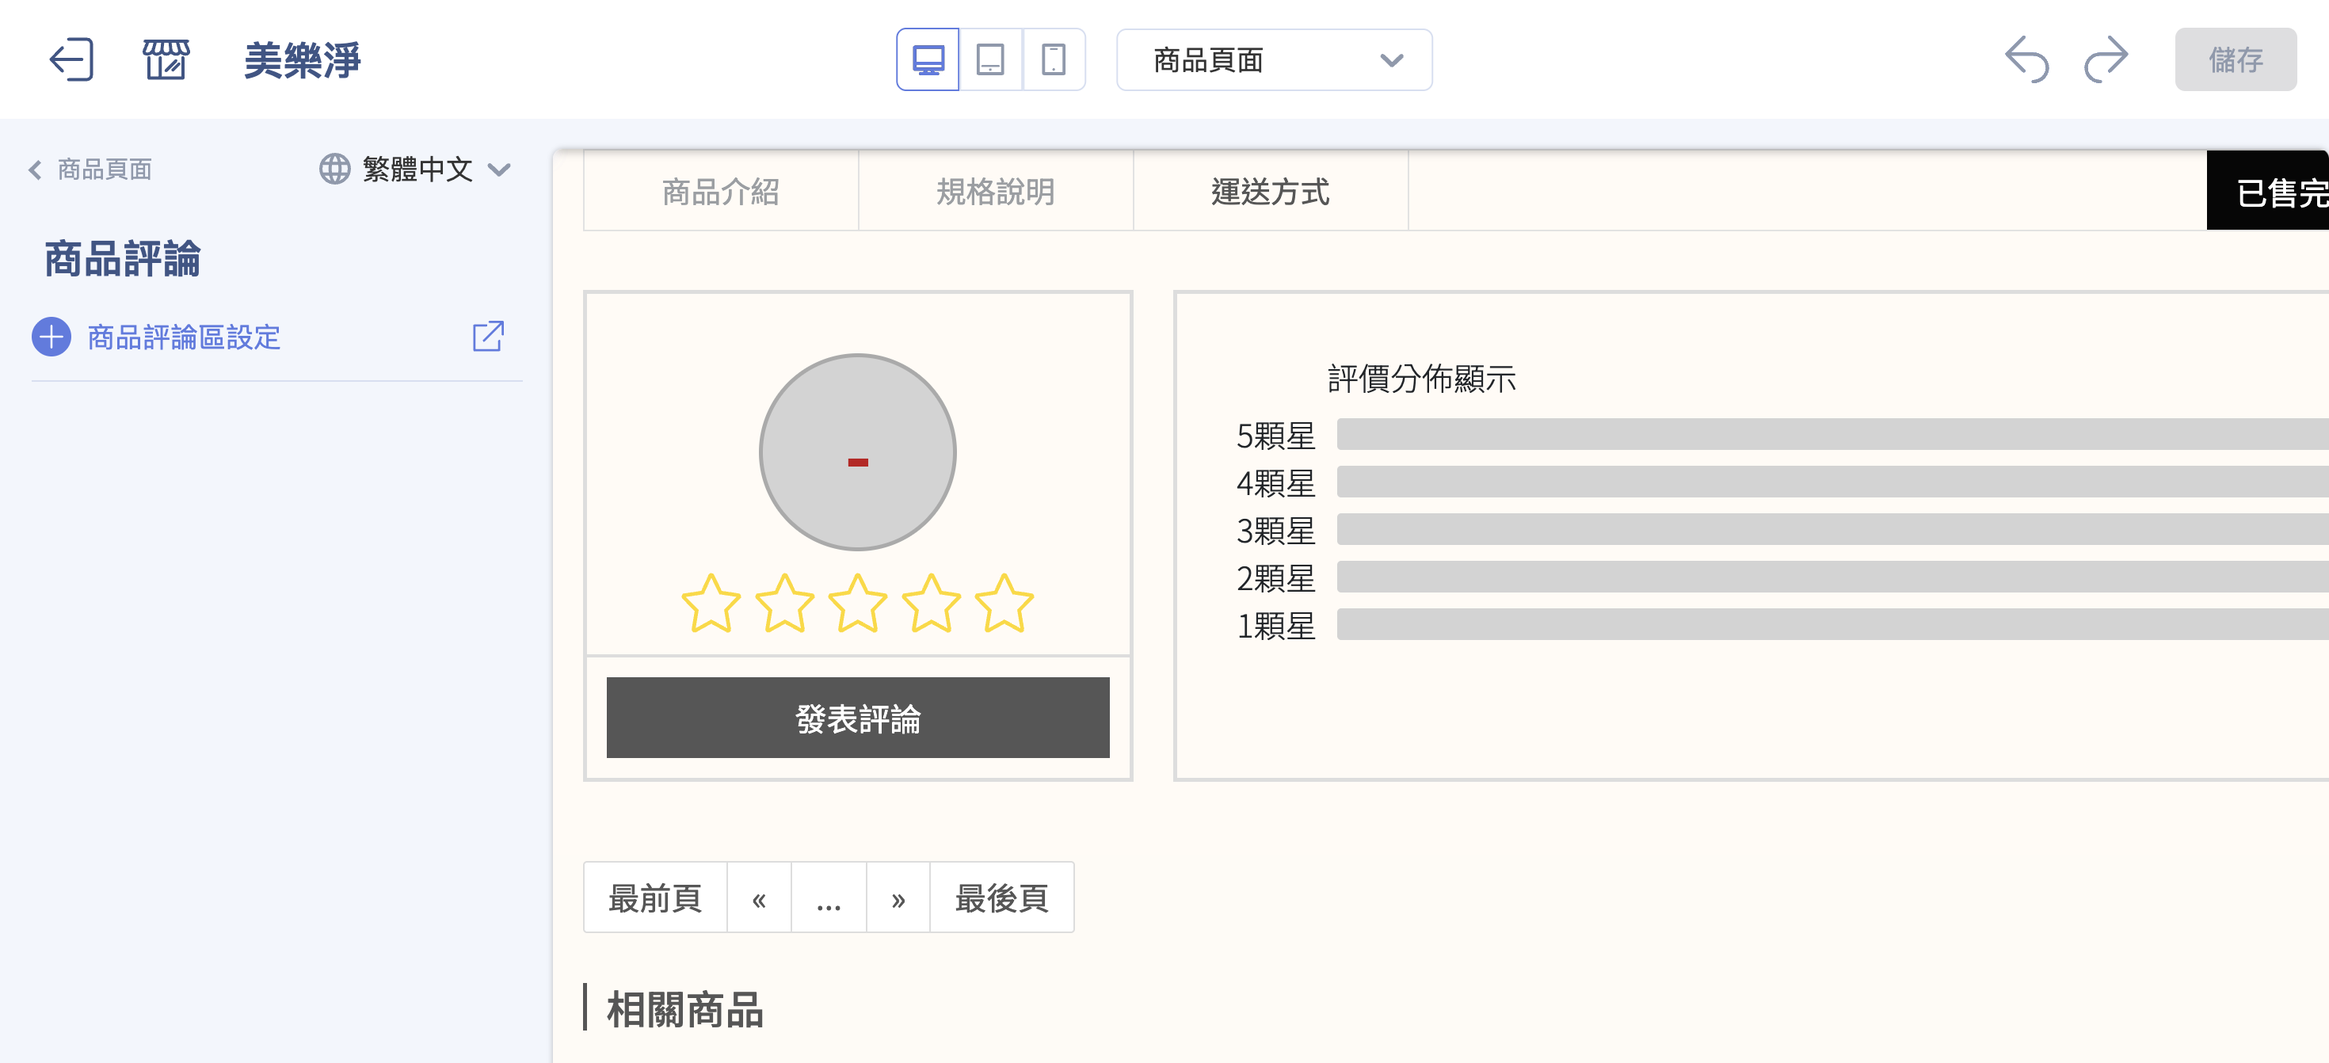
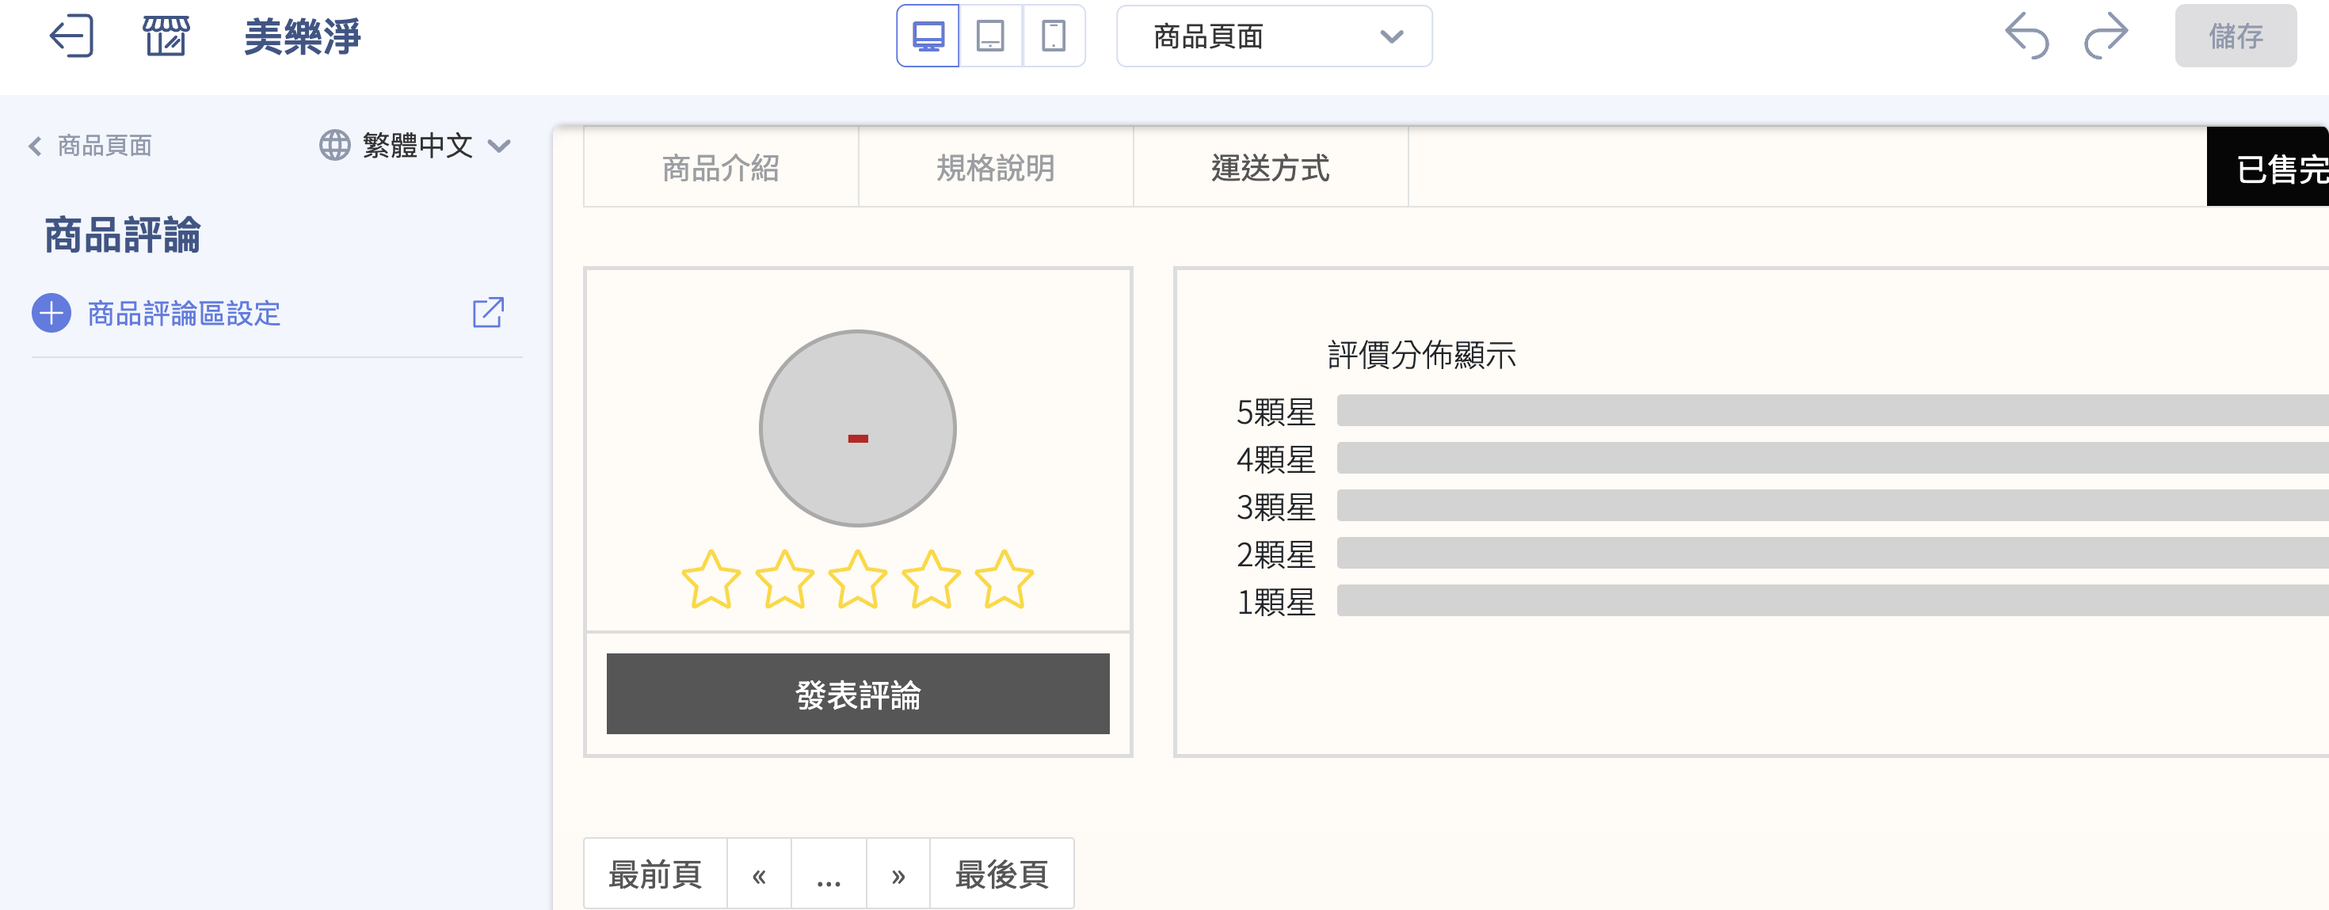
update

diff --git a/docs/ec/website-appearance/theme-and-layout/setup-theme-page-settings.md b/docs/ec/website-appearance/theme-and-layout/setup-theme-page-settings.md
@@ -2,7 +2,7 @@
 title: 各頁面設定指南
 description: 依頁面類型說明拖拉版型的各項設定，包含首頁區塊、商品頁面、部落格、客服頁等。
 created:
-last_modified: 2026-07-14 16:59
+last_modified: 2026-07-15 10:40
 lang: zh-TW
 permalink: https://help.cyberbiz.io/ec/website-appearance/theme-and-layout/setup-theme-page-settings
 type: tutorial
@@ -111,7 +111,7 @@ comments: false
 
 ### 首頁 { #homepage }
 
-首頁可新增以下 13 種區塊。多數區塊的設定面板會提供一個 **其他版面設定** 展開面板，裡面除了各區塊的特有項目外，都包含一組共通的 **版面邊距**（單位 px），以下各區塊章節 **只列出其特有設定**，共通的版面邊距不再重複說明。
+首頁可新增以下 13 種區塊。多數區塊的設定面板會提供一個 **其他版面設定** 展開面板，裡面除了各區塊的特有項目外，都包含一組共通的 **版面邊距**（單位 px），以下各區塊章節 **列出其特有設定**。
 
 ??? info "版面邊距設定"
 
@@ -380,50 +380,50 @@ comments: false
 
     ![自訂排版設計-新增小區塊](../../../assets/images/ec-website-appearance-custom-blocks-add-block.png){ title="新增小區塊" }
 
-=== "圖片" 
+    === "圖片" 
 
-    1. 上傳電腦／平板／手機版圖片（僅傳電腦版時自動沿用）。 
-    2. 填寫 **圖片標題、圖片說明（進階文字）、圖片連結（可新分頁開啟）、圖片替代文字**。 
-    3. 設定 **版面螢幕占比**。 
+        1. 上傳電腦／平板／手機版圖片（僅傳電腦版時自動沿用）。 
+        2. 填寫 **圖片標題、圖片說明（進階文字）、圖片連結（可新分頁開啟）、圖片替代文字**。 
+        3. 設定 **版面螢幕占比**。 
 
-    ![自訂排版設計 - 圖片](../../../assets/images/ec-website-appearance-custom-blocks-image.png) 
+        ![自訂排版設計 - 圖片](../../../assets/images/ec-website-appearance-custom-blocks-image.png) 
 
-=== "影片" 
+    === "影片" 
 
-    1. 貼入 **影片連結**。 
-    2. 設定 **自動播放／隱藏外框／重複播放**（重複播放預設開啟）。 
-    3. 設定 **版面螢幕占比**。 
+        1. 貼入 **影片連結**。 
+        2. 設定 **自動播放／隱藏外框／重複播放**（重複播放預設開啟）。 
+        3. 設定 **版面螢幕占比**。 
 
-    ![自訂排版設計 - 影片](../../../assets/images/ec-website-appearance-custom-blocks-video.png) 
+        ![自訂排版設計 - 影片](../../../assets/images/ec-website-appearance-custom-blocks-video.png) 
 
-=== "排程跑馬燈" 
+    === "排程跑馬燈" 
 
-    1. 載入預先製作好的 **跑馬燈群組**。 
-    2. 設定 **版面螢幕占比**。 
-    3. 詳見 [排程跑馬燈設定指南](configure-scheduled-carousels.md){ title="建立與管理排程跑馬燈" }。 
+        1. 載入預先製作好的 **跑馬燈群組**。 
+        2. 設定 **版面螢幕占比**。 
+        3. 詳見 [排程跑馬燈設定指南](configure-scheduled-carousels.md){ title="建立與管理排程跑馬燈" }。 
 
-    ![自訂排版設計 - 排程跑馬燈](../../../assets/images/ec-website-appearance-custom-blocks-carousel.png) 
+        ![自訂排版設計 - 排程跑馬燈](../../../assets/images/ec-website-appearance-custom-blocks-carousel.png) 
 
-=== "自訂 HTML" 
+    === "自訂 HTML" 
 
-    1. 點擊「編輯」進入 HTML 編輯頁面。 
-    2. 貼入自訂 HTML／CSS 程式碼。 
-    3. 設定 **版面螢幕占比**。 
+        1. 點擊「編輯」進入 HTML 編輯頁面。 
+        2. 貼入自訂 HTML／CSS 程式碼。 
+        3. 設定 **版面螢幕占比**。 
 
-    ![自訂排版設計 - 自訂 HTML](../../../assets/images/ec-website-appearance-custom-blocks-html.png) 
+        ![自訂排版設計 - 自訂 HTML](../../../assets/images/ec-website-appearance-custom-blocks-html.png) 
 
-=== "商品" 
+    === "商品" 
 
-    1. 點擊「選擇商品」找出商品（僅能選單一商品）。 
+        1. 點擊「選擇商品」找出商品（僅能選單一商品）。 
 
-        ![自訂排版設計 - 選擇商品](../../../assets/images/ec-website-appearance-custom-blocks-product-select.png) 
+            ![自訂排版設計 - 選擇商品](../../../assets/images/ec-website-appearance-custom-blocks-product-select.png) 
 
-    2. 設定 **電腦版商品分類樣式** 及 **版面螢幕占比**。 
+        2. 設定 **電腦版商品分類樣式** 及 **版面螢幕占比**。 
 
-        ![自訂排版設計 - 分類樣式與版面占比](../../../assets/images/ec-website-appearance-custom-blocks-product-layout.png) 
+            ![自訂排版設計 - 分類樣式與版面占比](../../../assets/images/ec-website-appearance-custom-blocks-product-layout.png) 
 
-!!! tip "設計模組的版面比例" 
-    透過「**版面螢幕占比**」控制每個小區塊的寬度，讓多個小區塊在同一橫列並排。每列總占比上限 100%，超過即自動換行。 
+    !!! tip "設計模組的版面比例" 
+        透過「**版面螢幕占比**」控制每個小區塊的寬度，讓多個小區塊在同一橫列並排。每列總占比上限 100%，超過即自動換行。 
 
 
 <!---->
@@ -518,15 +518,15 @@ comments: false
 
     === "電腦版"
 
-        - **版面左右外邊距**：設 0px 即滿版（預設 0px），輸入後按 Enter 套用。
-        - **版面底部外邊距**：與下方區塊的距離（預設 0px）。
+        - **版面左右外邊距**：設 0px 即滿版，輸入後按 Enter 套用。
+        - **版面底部外邊距**：與下方區塊的距離。
 
         ![電腦版-版面邊距](../../../assets/images/ec-website-appearance-graphic-intro-margins-desktop.png)
 
     === "平板版、手機版"
 
-        - **版面左右外邊距**：同電腦版（預設 0px）。
-        - **版面底部外邊距**：同電腦版（預設 0px）。
+        - **版面左右外邊距**：同電腦版。
+        - **版面底部外邊距**：同電腦版。
 
         ![平板手機版-版面邊距](../../../assets/images/ec-website-appearance-graphic-intro-margins-mobile.png)
 
@@ -562,7 +562,6 @@ comments: false
 
             !!! warning "使用前提"
                 商品多層級分類、紅配綠組合優惠活動、紅利商城等選項，需先開通對應功能才會出現在下拉選單中。
-
 
 ---
 
@@ -618,15 +617,15 @@ comments: false
 
     === "電腦版"
 
-        - **版面左右外邊距**：設 0px 即滿版（預設 80px），輸入後按 Enter 套用。
-        - **版面底部外邊距**：與下方區塊的距離（預設 50px）。
+        - **版面左右外邊距**：設 0px 即滿版，輸入後按 Enter 套用。
+        - **版面底部外邊距**：與下方區塊的距離。
 
         ![主打商品-電腦版-版面邊距](../../../assets/images/ec-website-appearance-flagship-margins-desktop.png)
 
     === "平板版、手機版"
 
-        - **版面左右外邊距**：同電腦版（預設 16px）。
-        - **版面底部外邊距**：同電腦版（預設 24px）。
+        - **版面左右外邊距**：同電腦版。
+        - **版面底部外邊距**：同電腦版。
 
         ![主打商品-平板手機版-版面邊距](../../../assets/images/ec-website-appearance-flagship-margins-mobile.png)
 
@@ -753,6 +752,9 @@ comments: false
     - **其他設定**：
 
         - **顯示商品廠商**：勾選後在前台顯示商品廠商名稱。
+
+            ![顯示商品廠商](../../../assets/images/ec-product-page-basic-manufacturer.png)
+
         - **顯示優惠活動區**：勾選後顯示優惠活動區塊。
 
             ![顯示優惠活動區](../../../assets/images/ec-product-page-basic-promo-area.png)
@@ -771,14 +773,25 @@ comments: false
 
     此功能需先洽客服申請開通。開通後可設定是否需審核留言、隱藏部分姓名，並可搭配 Google reCAPTCHA 防止機器人攻擊。
 
-    - [如何管理商品評論](../../products/engagement/manage-product-reviews.md){ title="管理商品評論" }
-    - [如何啟用 reCAPTCHA](../customer-interaction/enable-comment-recaptcha.md){ title="啟用留言區 reCAPTCHA" }
+    <div class="grid cards" markdown>
+
+    - :lucide-message-square:{ .lg } [__管理商品評論__](../../products/engagement/manage-product-reviews.md){ title="管理商品評論" }
+
+    - :lucide-shield-check:{ .lg } [__啟用留言區 reCAPTCHA__](../customer-interaction/enable-comment-recaptcha.md){ title="啟用留言區 reCAPTCHA" }
+
+    </div>
 
     ![商品頁面-商品評論](../../../assets/images/ec-網站外觀-拖拉版型-商品頁面-商品評論.png)
 
 === "相關商品"
+    [](){ #相關商品 }
 
     選擇顯示「商品群組其他商品」(同分類隨機顯示)或「自訂關聯群組商品」。
+
+    - **顯示同商品群組其他商品**：隨機顯示此商品所屬商品群組的其他品項。
+    - **顯示自訂關聯群組商品**：排序顯示此商品於商品頁設定之相關群組品項（[商品關聯群組](../../products/create-and-manage/create-update-products.md#operate-product-edit-settings){ title="設定商品關聯群組" }）。
+    - **相關商品標籤文字**：輸入標籤顯示文字，輸入後按 Enter 套用。
+    - **選擇商品數量上限**：設定顯示的商品數量。
 
     ![商品頁面-相關商品](../../../assets/images/ec-網站外觀-拖拉版型-商品頁面-相關商品.png)
 

diff --git a/docs/ec/products/create-and-manage/create-update-products.md b/docs/ec/products/create-and-manage/create-update-products.md
@@ -2,7 +2,7 @@
 title: 新增與更新商品
 description: 完成一支商品從新增、設定款式與價格、撰寫商品描述，到後續編輯、複製、上下架，以及多國語系與跨境銷售的相關設定。
 created: 2026-03-08 17:15
-last_modified: 2026-07-08 13:06
+last_modified: 2026-07-15 13:55
 lang: zh-TW
 type: tutorial
 status: ""
@@ -271,17 +271,28 @@ hide: []
 
 切換至 **設定** 分頁，可進行下列進階設定：
 
-- **商品類型 / 商品通路 / 商品廠商：** 用於後台分類與管理。此三項新增後無法刪除或改名，請謹慎命名。
-- **標籤：** 為商品加上標籤，方便後台管理與前台分類。
-- **出貨方式：** 選擇 **自行出貨** 或已開通的倉儲物流[^warehouse]。
-- **運送溫層與物流配送：** 設定常溫、冷藏或冷凍，並勾選此商品可使用的物流[^temperature]。
-- **SEO 設定：** 依商品特性填寫，有助於提升搜尋引擎排名。
-- **商品關聯群組：** 選擇既有的 [**商品自訂分類**](../categories-and-tags/custom-collections.md){ title="設定商品自訂分類群組" } 或 [**商品條件分類**](../categories-and-tags/smart-collections.md){ title="設定商品條件分類群組" }，設定後該群組商品會顯示在商品頁下方的相關商品區。
-
 ![商品進階設定](../../../assets/images/ec-product-settings.zh-tw.png){ title="商品進階設定" }
 
-[^warehouse]: 可選的出貨倉庫依已開通的物流功能動態顯示，詳見 [出貨方式對照表](../references/product-warehouse.md){ title="出貨方式對照表" }。
-[^temperature]: 溫層為方案限定功能，各溫層意義詳見 [運送溫層對照表](../references/product-temperature.md){ title="運送溫層對照表" }。
+- **商品類型 / 商品通路 / 商品廠商：** 用於後台分類與管理。此三項新增後無法刪除或改名，請謹慎命名。
+- **標籤：** 為商品加上標籤，方便後台管理與前台分類。
+- **出貨方式：** 選擇 **自行出貨** 或已啟用的倉儲物流[^warehouse]。
+
+    ![商品出貨方式設定](../../../assets/images/ec-product-settings-shipping-method.png){ title="商品出貨方式設定" }
+
+- **運送溫層與物流配送：** 設定常溫、冷藏或冷凍，並勾選此商品可使用的物流[^temperature]。
+
+    ![商品運送溫層設定](../../../assets/images/ec-product-settings-temperature-zone.png){ title="商品運送溫層設定" }
+- **SEO 設定：** 依商品特性填寫，有助於提升搜尋引擎排名。
+
+    ![商品SEO設定](../../../assets/images/ec-product-settings-seo.png){ title="商品SEO設定" }
+
+- **商品關聯群組：** 選擇既有的 [**商品自訂分類**](../categories-and-tags/custom-collections.md){ title="設定商品自訂分類群組" } 或 [**商品條件分類**](../categories-and-tags/smart-collections.md){ title="設定商品條件分類群組" }，設定後該群組商品會顯示在商品頁下方的 [**相關商品區**](../../website-appearance/theme-and-layout/setup-theme-page-settings.md#相關商品){ title="設定相關商品顯示" }。
+
+    ![商品關聯群組設定](../../../assets/images/ec-product-settings-related-products.png){ title="商品關聯群組設定" }
+
+
+[^warehouse]: 可選的出貨倉庫依已啟用的物流功能動態顯示，詳見 [出貨方式對照表](../references/product-warehouse.md){ title="出貨方式對照表" }。
+[^temperature]: 各溫層意義詳見 [運送溫層對照表](../references/product-temperature.md){ title="運送溫層對照表" }。
 
 ---
 

diff --git a/AGENTS.md b/AGENTS.md
@@ -86,3 +86,48 @@
 - `last_modified` 於每次編輯後更新為 `YYYY-MM-DD HH:mm`
 - `permalink` 預設為空，使用前需產生
 - frontmatter `icon` 使用 `lucide/` 或 `simple/` 前綴
+
+## Tabbed Content 與圖片慣例
+
+### 其他版面設計 pattern
+區塊設定中若有「其他版面設計」面板，應使用獨立 step 描述：
+
+```markdown
+2. 點擊 **其他版面設計**，設定以下項目：
+
+    - **文字排版**：選擇文字對齊方式（靠左／置中／靠右）。
+    - **文字**：設定文字顏色（點色塊選色）。
+    - **背景**：設定區塊背景顏色。
+
+    === "電腦版"
+
+        - **版面左右外邊距**：設 0px 即滿版（預設 0px）。
+        - **版面底部外邊距**：與下方區塊的距離（預設 0px）。
+
+        ![電腦版-版面邊距](../../../assets/images/{filename})
+
+    === "平板版、手機版"
+
+        - **版面左右外邊距**：同電腦版（預設 0px）。
+        - **版面底部外邊距**：同電腦版（預設 0px）。
+
+        ![平板手機版-版面邊距](../../../assets/images/{filename})
+```
+
+### 圖片縮排規則
+| 位置 | 縮排 |
+|------|------|
+| Tab 內圖片 | 8-space（tab 4 + content 4） |
+| Bullet list 後圖片 | 4-space（list continuation） |
+| Step 後圖片（非 nested） | 無縮排（頂層） |
+
+### Simple Grid Card
+簡單的 grid card 格式：icon 與 title 在同一行，無描述文字：
+
+```markdown
+<div class="grid cards" markdown>
+
+- :lucide-icon:{ .lg } [__Title__](link.md){ title="Title" }
+
+</div>
+```

diff --git a/docs/ec/products/checkout/checkout-split-multi-cart.md b/docs/ec/products/checkout/checkout-split-multi-cart.md
@@ -2,7 +2,7 @@
 title: 設定結帳自動拆分多購物車
 description: 依據商品的通路、溫層、物流及預購屬性設定拆單規則，讓系統在結帳時自動將商品分配至多個購物車。
 created: 2026-03-05 15:00
-last_modified: 2026-07-03 13:11
+last_modified: 2026-07-15 11:23
 lang: zh-TW
 type: tutorial
 status:
@@ -111,20 +111,22 @@ comments: false
         ```
 
 ## 操作流程
+
 ### 設定商品通路
+
 [:lucide-tag:{ title="適用方案" }](../../../resources/conventions.md#conventions-plans) | 高手 / PLUS / 企業
 
 1. 登入 CYBERBIZ 管理後台，前往 **商品 > 所有商品**。
 2. 點擊目標商品進入編輯頁面，並切換至 **設定** 頁籤。
 3. 在「商品通路」區塊，新增或管理商品通路。預設值為空，表示該商品適用所有通路。
 
+![商品通路設定](../../../assets/images/ec-product-distribution-channel-setting.zh-tw.png){ title="商品通路設定" }	
+
 !!! tip "通路新增與命名規則"
     可直接輸入通路名稱以新增，**新增後不可刪除**。不可新增重複名稱的通路，如需相同名稱，請透過編號區分。每個商品僅能綁定 **一個通路**。
 
 ??? info "商品通路的運作邏輯"
     可將 商品通路 視作一種標籤，自行建立名稱套用至商品。系統會依據通路自動拆分成多個購物車，獨立計算優惠與運費。
-
-![商品通路設定](../../../assets/images/ec-product-distribution-channel-setting.zh-tw.png){ title="商品通路設定" }	
 
 ---
 

diff --git a/docs/ec/products/references/product-warehouse.md b/docs/ec/products/references/product-warehouse.md
@@ -2,7 +2,7 @@
 title: 出貨方式對照表
 description: ""
 created: 2026-06-05 13:47
-last_modified: 2026-07-06T17:32:56+08:00
+last_modified: 2026-07-15 11:12
 lang: zh-TW
 type: reference
 status: ""
@@ -50,14 +50,14 @@ icon: lucide/table
 hide:
 ---
 
-「出貨方式」決定一支商品由誰負責倉儲與出貨。預設所有商品都是 **自行出貨**，若您有開通第三方倉儲或跨境物流功能，才會出現對應的物流倉選項。
+「出貨方式」決定一支商品由誰負責倉儲與出貨。預設所有商品都是 **自行出貨**，若您有啟用第三方倉儲或跨境物流功能，才會出現對應的物流倉選項。
 
 ### 出貨方式對照表 { #reference-product-warehouse }
 
-| 出貨方式 | 說明 | 開通條件 |
+| 出貨方式 | 說明 | 適用條件 |
 | :-- | :-- | :-- |
-| 自行出貨 | 商品由您自行包裝出貨，庫存與出貨皆在後台手動管理。 | 內建，無需開通 |
-| 倉儲 / 跨境物流倉 | 由第三方倉庫或跨境物流代為倉儲與出貨，訂單成立後依設定自動拋單。 | 需開通對應的物流倉功能 |
+| 自行出貨 | 商品由您自行包裝出貨，庫存與出貨皆在後台手動管理。 |  |
+| 倉儲 / 跨境物流倉 | 由第三方倉庫或跨境物流代為倉儲與出貨，訂單成立後依設定自動拋單。 | 需啟用對應的物流倉功能 |
 
 !!! note "註釋"
     * 「出貨方式」下拉的可選倉庫 **依您已開通的物流功能動態顯示**，不同商店看到的選項不同。

diff --git a/docs/resources/glossary.md b/docs/resources/glossary.md
@@ -2,7 +2,7 @@
 title: 詞彙表
 description: 收錄 CYBERBIZ 系統專業詞彙的定義與說明，涵蓋商品管理、訂單物流、行銷分析、平台方案等面向。每個詞彙附有英文註解與相關文件參閱連結。
 icon: lucide/book-marked
-last_modified: 2026-07-02 21:20
+last_modified: 2026-07-15 13:30
 type: reference
 author: Jase
 tags:
@@ -142,6 +142,8 @@ tags:
 ### 商品關聯群組
 
 商家可依照商品屬性或銷售策略手動設定商品之間的關聯性，以提升商品曝光與銷售效果。
+
+- **參閱**：[新增與更新商品](../ec/products/create-and-manage/create-update-products.md#operate-product-edit-settings){ title="商品關聯群組設定" } | [商品頁面設定](../ec/website-appearance/theme-and-layout/setup-theme-page-settings.md#相關商品){ title="設定相關商品顯示" }
 
 ### Google 產品類別
 
